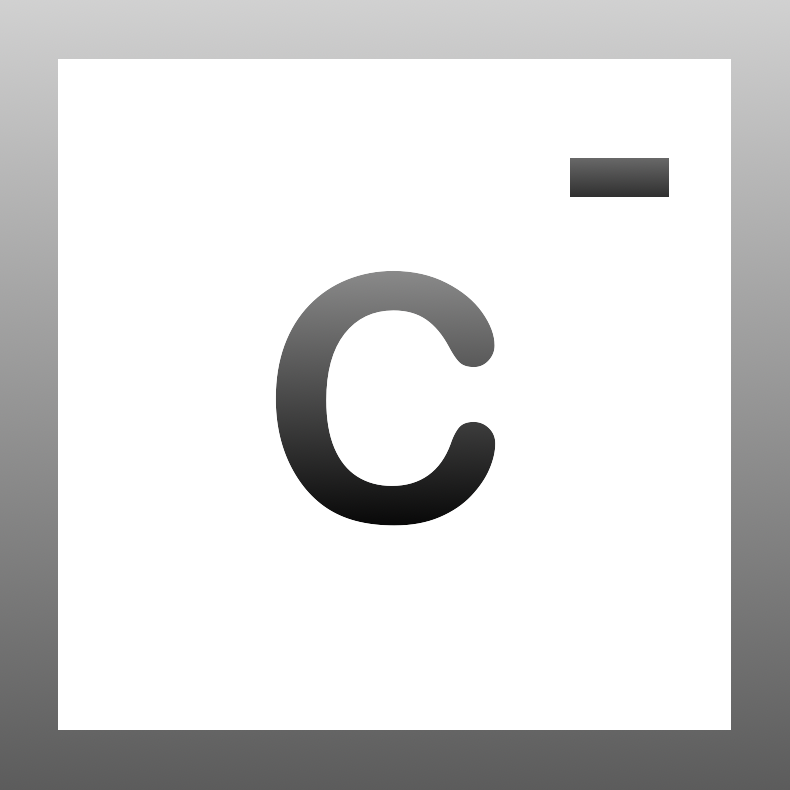
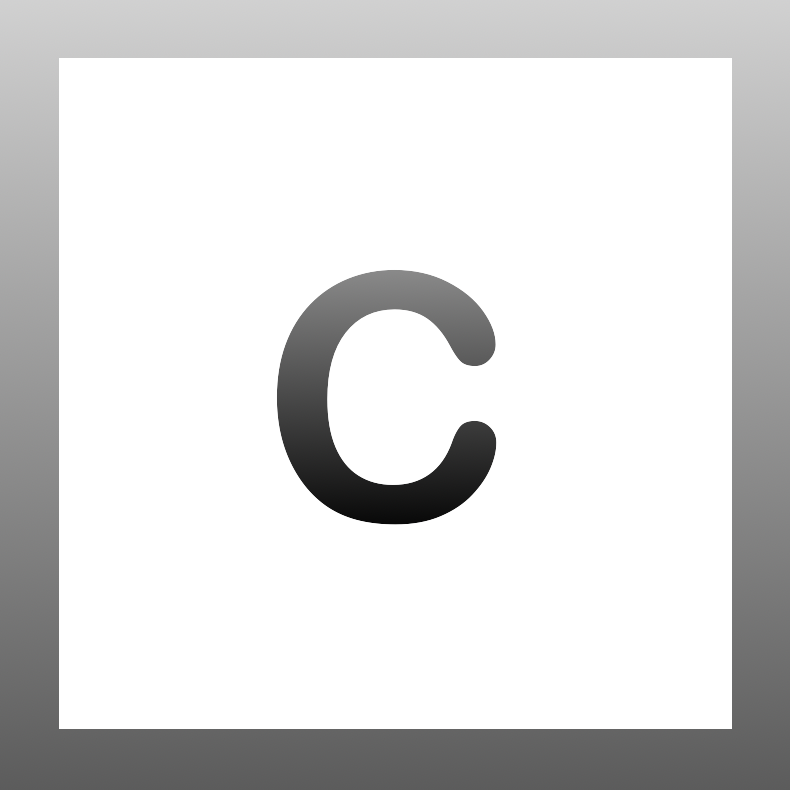
Change nano- things

Changed region(s): [[0.6987, 0.1823, 0.8506, 0.2734], [0.5772, 0.3646, 0.6076, 0.3949], [0.4253, 0.5772, 0.4557, 0.6076]]

diff --git a/README.md b/README.md
@@ -1,3 +1,3 @@
-# Charmony nano
+# Charmony
 
-A really small client-only library for Charmony mods.
+A really small embedded library for Charmony mods.
